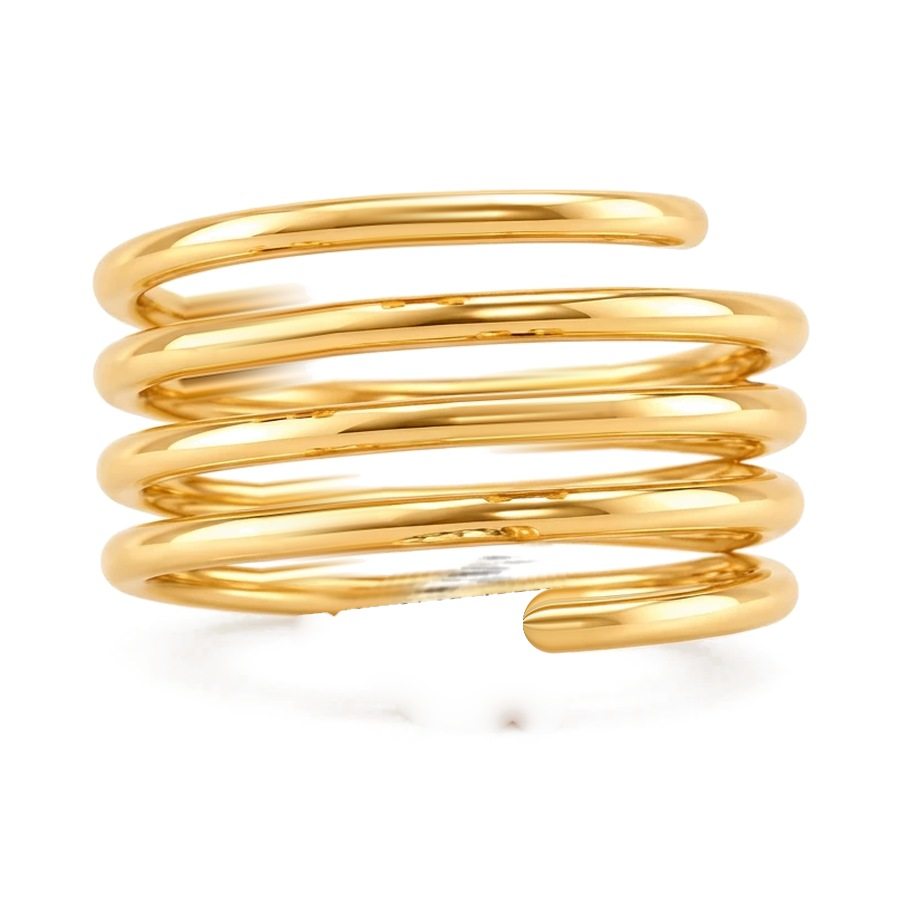
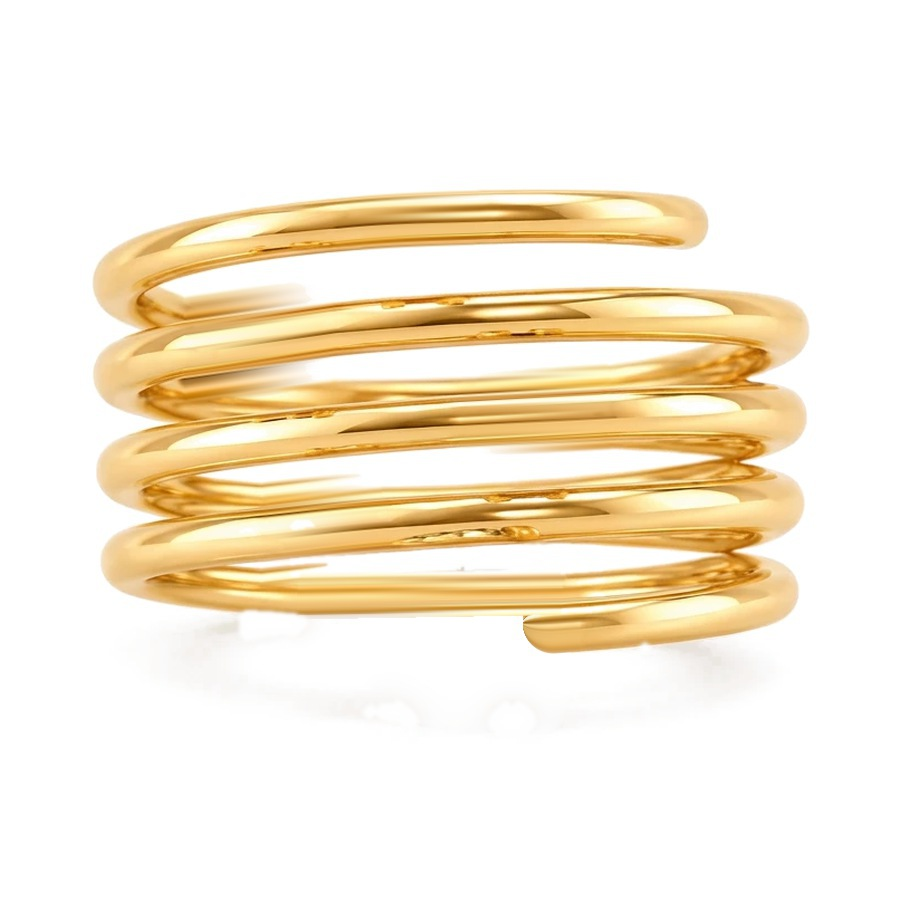
4- and 5-wrap: clean band behind the bottom stone
The grey streaks left where the photo's own pear was lifted are gone: that stretch of band is rebuilt from the band either side, and the leftover specks on the floor under it are removed. Nothing else changes from Saturday's photos.

diff --git a/index.html b/index.html
@@ -342,7 +342,7 @@ const PHOTO = 900, STONE_BOX = 3;      // a stone image is 3x its stone's radius
 
 const stoneSrc  = (i, metal) => asset('img/stones/' + METALS[metal].dir + '/' + STONE_BANK[i].file + '?v=2');
 const seatSrc   = metal => asset('img/stones/' + METALS[metal].dir + '/seat.png?v=2');
-const ringSrc   = (n, metal) => asset('img/rings/' + METALS[metal].dir + '/ring-' + n + '.jpg?v=21');   // bump v when the photos change, so no one sees old photos under new placements
+const ringSrc   = (n, metal) => asset('img/rings/' + METALS[metal].dir + '/ring-' + n + '.jpg?v=22');   // bump v when the photos change, so no one sees old photos under new placements
 const bottomSrc = (cut, size, metal) => asset('img/bottom/' + METALS[metal].dir + '/' + cut + '-' + size + '.png');
 
 /* ============================ STATE ============================

diff --git a/tools/clean_bottom_4_5.py b/tools/clean_bottom_4_5.py
@@ -1,0 +1,53 @@
+"""Clean the bottom of the Saturday 4- and 5-wrap photos: the grey streaks left in the band where the original pear
+was lifted are filled with that band's own gold (row by row, from the gold either side), and the leftover shadow specks
+on the floor under it go. Nothing else in the photos is touched."""
+import json, os, sys, subprocess, io, numpy as np
+from PIL import Image, ImageDraw
+from scipy import ndimage
+R='/Users/zahavalowy/Projects/pkhart-ring-studio/'; S=os.path.dirname(os.path.dirname(os.path.abspath(__file__)))
+src=open(R+'tools/make_ring_photos.py').read(); ns={'__file__':R+'tools/make_ring_photos.py'}; exec(src[:src.index('def erase_curved')],ns); tint=ns['tint']; clean=ns['clean_backdrop']
+OV={4:(300,596,560,591)}      # the band behind the pear, picked by eye where the automatic pick took the wrong band
+PEAR={4:[334,554,232,173],5:[333,597,227,183]}      # where the photo's own pear sat: x, y, w, h
+def orig(metal,n): return np.asarray(Image.open(io.BytesIO(subprocess.run(['git','-C',R,'show',f'5ae8774:img/rings/{metal}/ring-{n}.jpg'],capture_output=True).stdout)).convert('RGB')).astype(float)
+for n in (4,5):
+    a=orig('gold',n); H,W=a.shape[:2]; yy,xx=np.mgrid[:H,:W]; px,py,pw,ph=PEAR[n]
+    zone=(xx>px-40)&(xx<px+pw+34)&(yy>py-30)&(yy<py+ph+26)
+    mx=a.max(-1); mn=a.min(-1); sat=(mx-mn)/np.maximum(mx,1); lum=a.mean(-1); gold=(sat>0.30)&(a[...,0]-a[...,2]>55)
+    up=ndimage.maximum_filter1d(gold.astype(np.uint8),69,axis=0,origin=34)>0; dn=ndimage.maximum_filter1d(gold.astype(np.uint8),69,axis=0,origin=-34)>0
+    smear=zone&(sat<0.2)&(lum<238)&up&dn; sy,sx=np.nonzero(smear); ysm=float(np.median(sy)); xsm=float(np.median(sx))
+    def runs(x):
+        ys=np.nonzero(gold[:,x])[0]; out=[]; s0=p=ys[0]
+        for y in ys[1:]:
+            if y>p+3: out.append((s0,p)); s0=y
+            p=y
+        out.append((s0,p)); return [q for q in out if q[1]-q[0]>=8]
+    def band(x,yc): return min(runs(x),key=lambda q:abs((q[0]+q[1])/2.0-yc))
+    xl=int(sx.min())-10; xr=int(sx.max())+10; yl=yr=ysm
+    if n in OV: xl,yl,xr,yr=OV[n]
+    bl=band(xl,yl); br=band(xr,yr); bl2=band(xl-20,(bl[0]+bl[1])/2.0); br2=band(xr+20,(br[0]+br[1])/2.0)
+    cl=(bl[0]+bl[1])/2.0; cr=(br[0]+br[1])/2.0; sl=(cl-(bl2[0]+bl2[1])/2.0)/20.0; sr=((br2[0]+br2[1])/2.0-cr)/20.0; Wd=float(xr-xl); D=cr-cl
+    if n in OV: sl=sr=D/Wd                                  # a straight run between the two sides
+    half=max(bl[1]-bl[0],br[1]-br[0])/2.0+5; print(n,'smear at',round(xsm),round(ysm),'band',xl,bl,'->',xr,br,'slopes',round(sl,3),round(sr,3))
+    colL=a[:,xl-2:xl+1].mean(1); colR=a[:,xr:xr+3].mean(1); ys_=np.arange(H); f=a.copy(); grey=np.zeros((H,W),bool)
+    def samp(col,d):
+        q=np.clip(ys_-d,0,H-1); lo=np.floor(q).astype(int); hi=np.minimum(lo+1,H-1); t=(q-lo)[:,None]; return col[lo]*(1-t)+col[hi]*t
+    for x in range(xl,xr+1):
+        t=(x-xl)/Wd; off=(t**3-2*t*t+t)*sl*Wd+(-2*t**3+3*t*t)*D+(t**3-t*t)*sr*Wd; u=min(1.0,max(0.0,(t-0.5)/0.6+0.5)); ts=u*u*(3-2*u)
+        new=samp(colL,off)*(1-ts)+samp(colR,off-D)*ts; rows=np.abs(ys_-(cl+off))<=half; f[rows,x]=new[rows]; grey[rows,x]=True
+    mg=ndimage.gaussian_filter(grey.astype(float),1.0)
+    left=zone&~grey&(sat<0.2)&(lum<246)&up&dn; left=ndimage.binary_dilation(left,iterations=5)&~ndimage.binary_dilation(gold,iterations=1)&~grey      # streaks left in the gaps go white
+    ml=ndimage.gaussian_filter(left.astype(float),1.0)
+    # floor specks under the ring, around where the pear was
+    mx2=f.max(-1); mn2=f.min(-1); gold2=(((mx2-mn2)/np.maximum(mx2,1))>0.2)&(f[...,0]-f[...,2]>35)|grey      # the ring as it is after the band is rebuilt
+    x0,y0,x1,y1=px,py,px+pw,py+ph; low=np.where(gold2,yy,-1).max(0); low=ndimage.maximum_filter1d(low,9)
+    lumf=f.mean(-1); speck=(yy>low[None,:]+2)&(xx>x0-90)&(xx<x1+90)&(yy<y1+70)&(lum<240)&(sat<0.2)
+    ms=ndimage.gaussian_filter(ndimage.binary_dilation(speck,iterations=6).astype(float),2.0)
+    print(n,'band px',int(grey.sum()),'floor px',int(speck.sum()))
+    for metal in ('gold','rose','silver'):
+        o=orig(metal,n); patch=f if metal=='gold' else clean(tint(f,metal,None))
+        out=o*(1-mg[...,None])+patch*mg[...,None]; out=out+(255-out)*np.maximum(ms,ml)[...,None]
+        Image.fromarray(np.clip(out,0,255).astype(np.uint8)).save(R+f'img/rings/{metal}/ring-{n}.jpg',quality=93)
+sh=Image.new('RGB',(4*640,363),'white')
+for i,n in enumerate((4,5)):
+    sh.paste(Image.fromarray(orig('gold',n).astype(np.uint8)).crop((80,480,820,900)).resize((640,363)),(i*1280,0)); sh.paste(Image.open(R+f'img/rings/gold/ring-{n}.jpg').crop((80,480,820,900)).resize((640,363)),(i*1280+640,0))
+sh.save('v.jpg',quality=93)
